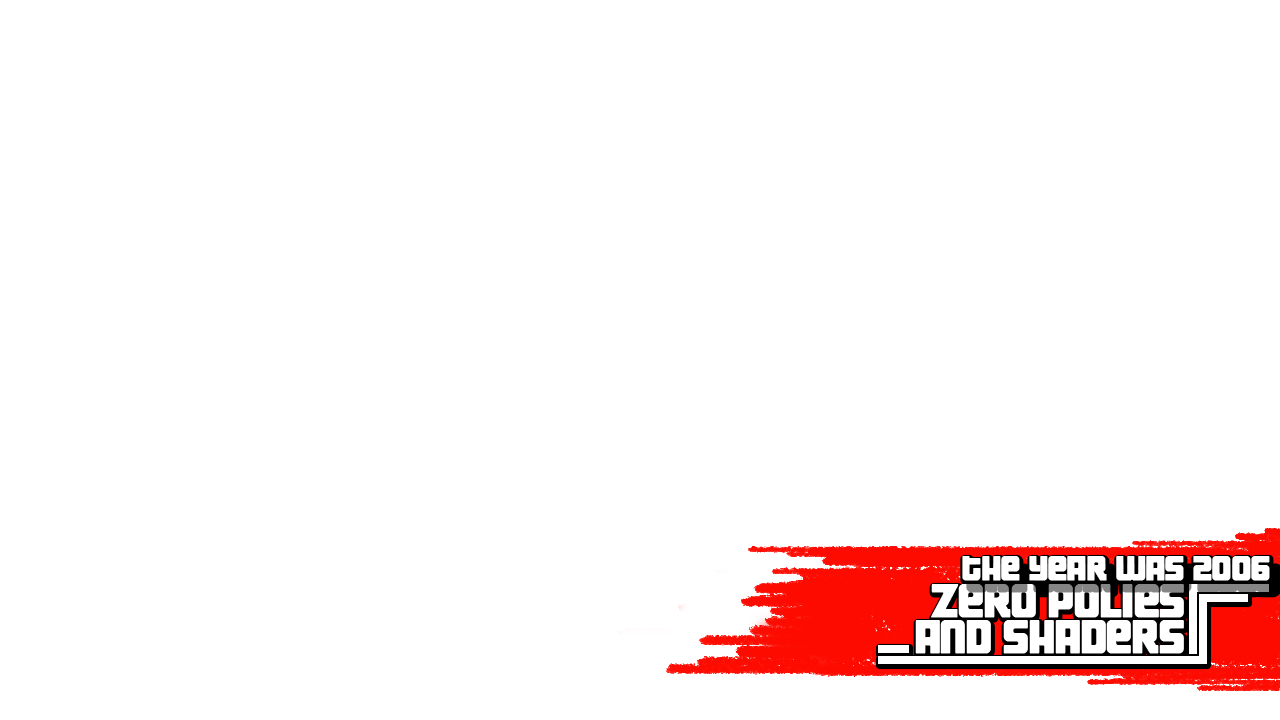
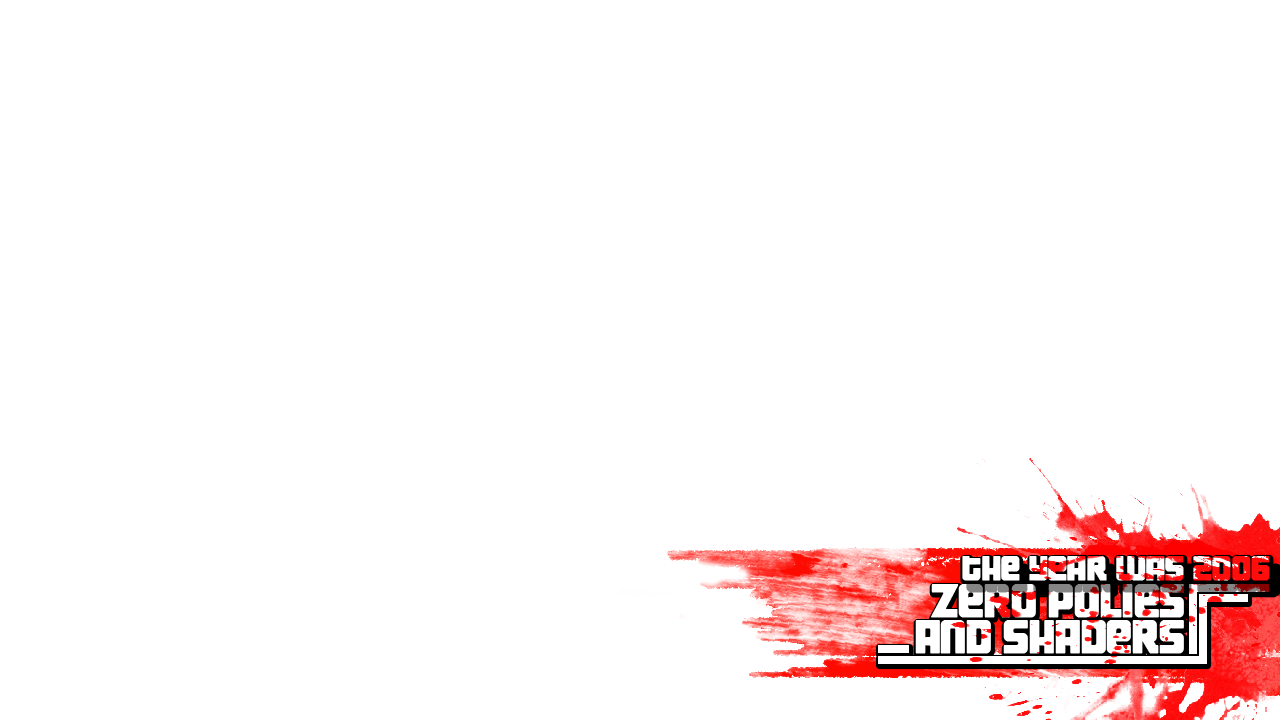
More of Nytrik's demands in the pipeline :)

Changed region(s): [[0.5, 0.6722, 1.0, 1.0], [0.7812, 0.825, 0.8125, 0.8556]]

diff --git a/code/demo.cpp b/code/demo.cpp
@@ -1,5 +1,5 @@
 
-// cookiedough -- Bypass/TPB-07: arrested development
+// cookiedough -- Bypass featuring TPB. presents 'Arrested Development'
 
 #include "main.h"
 // #include <windows.h> // for audio.h
@@ -48,7 +48,11 @@ SyncTrack trackWaterLove;
 
 SyncTrack trackLoveBlurHorz;
 
-SyncTrack trackCloseUpMoonraker, trackCloseUpMoonrakerText;
+SyncTrack trackCloseUpMoonraker, trackCloseUpMoonrakerText, trackCloseUpMoonrakerTextBlur;
+
+SyncTrack trackSpikeDemoLogoIndex;
+
+SyncTrack trackBloodEffectLogoBlend;
 
 // --------------------
 
@@ -60,9 +64,9 @@ constexpr auto kCredY = 568;
 // vignette re-used (TPB-06)
 static uint32_t *s_pVignette06 = nullptr;
 
-// Stars/NoooN text overlay, lens dirt & vignette (1280x720)
-static uint32_t *s_pNoooN = nullptr;
-static uint32_t *s_pMFX = nullptr;
+// Stars/NoooN + MFX text overlays, lens dirt & vignette (1280x720)
+static uint32_t *s_pNoooN[4] = { nullptr };
+static uint32_t *s_pMFX[4] = { nullptr };
 static uint32_t *s_pTunnelFullDirt = nullptr;
 static uint32_t *s_pTunnelVignette = nullptr;
 static uint32_t *s_pTunnelVignette2 = nullptr;
@@ -70,7 +74,7 @@ static uint32_t *s_pTunnelVignette2 = nullptr;
 // first spikey ball art
 static uint32_t *s_pSpikeyFullDirt = nullptr;
 static uint32_t *s_pSpikeyBypass = nullptr;
-static uint32_t *s_pSpikeyArrested = nullptr;
+static uint32_t *s_pSpikeyArrested[4] = { nullptr };
 static uint32_t *s_pSpikeyVignette = nullptr;
 static uint32_t *s_pSpikeyVignette2 = nullptr;
 
@@ -179,9 +183,12 @@ bool Demo_Create()
 
 	trackCheapJoke = Rocket::AddTrack("demo:CheapGPU");
 
+	trackSpikeDemoLogoIndex = Rocket::AddTrack("demo:MainLogoIndex");
+
 	// FIXME: this one might not belong in this file for but for compositing reasons it does
 	trackCloseUpMoonraker = Rocket::AddTrack("closeSpike:Moonraker");
 	trackCloseUpMoonrakerText = Rocket::AddTrack("closeSpike:MoonrakerText");
+	trackCloseUpMoonrakerTextBlur = Rocket::AddTrack("closeSpike:MoonrakerBlur");
 
 	// load credits logos (1280x640)
 	s_pCredits[0] = Image_Load32("assets/credits/Credits_Tag_Superplek_outlined.png");
@@ -198,27 +205,41 @@ bool Demo_Create()
 		return false;
 	
 	// first appearance of the 'spikey ball' including the title and main group
-	s_pSpikeyArrested = Image_Load32("assets/spikeball/TheYearWas2023_Overlay_Typo.png");
+	s_pSpikeyArrested[0] = Image_Load32("assets/spikeball/Layer 2023_1.png");
+	s_pSpikeyArrested[1] = Image_Load32("assets/spikeball/Layer 2023_2.png");
+	s_pSpikeyArrested[2] = Image_Load32("assets/spikeball/Layer 2023_3.png");
+	s_pSpikeyArrested[3] = Image_Load32("assets/spikeball/Layer 2023_4.png");
 	s_pSpikeyVignette = Image_Load32("assets/spikeball/Vignette_CoolFilmLook.png");
 	s_pSpikeyVignette2 = Image_Load32("assets/spikeball/Vignette_Layer02_inverted.png");
 	s_pSpikeyBypass = Image_Load32("assets/spikeball/SpikeyBall_byPass_BG_Overlay.png");
 	s_pSpikeyFullDirt = Image_Load32("assets/spikeball/nytrik-TheYearWas_Overlay_LensDirt.jpg");
-	if (nullptr == s_pSpikeyArrested || nullptr == s_pSpikeyBypass || nullptr == s_pSpikeyFullDirt || nullptr == s_pSpikeyVignette || nullptr == s_pSpikeyVignette2)
+	const bool spikeyArresteds = nullptr == s_pSpikeyArrested[0] || nullptr == s_pSpikeyArrested[1] || nullptr == s_pSpikeyArrested[2] || nullptr == s_pSpikeyArrested[3];
+	if (true == spikeyArresteds || nullptr == s_pSpikeyBypass || nullptr == s_pSpikeyFullDirt || nullptr == s_pSpikeyVignette || nullptr == s_pSpikeyVignette2)
 		return false;
 
 	// NoooN et cetera
-	s_pNoooN = Image_Load32("assets/tunnels/TheYearWas_Overlay_Typo_style2.png");
-	s_pMFX = Image_Load32("assets/tunnels/TheYearWas2006_Overlay_Overlay_Typo_style2.png");
+	s_pNoooN[0] = Image_Load32("assets/tunnels/layer 1995_1.png");
+	s_pNoooN[1] = Image_Load32("assets/tunnels/layer 1995_2.png");
+	s_pNoooN[2] = Image_Load32("assets/tunnels/layer 1995_3.png");
+	s_pNoooN[3] = Image_Load32("assets/tunnels/layer 1995_4.png");
+	s_pMFX[0] = Image_Load32("assets/tunnels/layer 2006_1.png");
+	s_pMFX[1] = Image_Load32("assets/tunnels/layer 2006_2.png");
+	s_pMFX[2] = Image_Load32("assets/tunnels/layer 2006_3.png");
+	s_pMFX[3] = Image_Load32("assets/tunnels/layer 2006_4.png");
 	s_pTunnelFullDirt = Image_Load32("assets/tunnels/nytrik-TheYearWas_Overlay_LensDirt.png");
 	s_pTunnelVignette = Image_Load32("assets/tunnels/Vignette_CoolFilmLook.png");;
 	s_pTunnelVignette2 = Image_Load32("assets/tunnels/Vignette_Layer02_inverted.png");
-	if (nullptr == s_pNoooN || nullptr == s_pTunnelFullDirt || nullptr == s_pTunnelVignette || nullptr == s_pTunnelVignette2 || nullptr == s_pMFX)
+
+	const bool NoooN = nullptr == s_pNoooN[0] || nullptr == s_pNoooN[1] || nullptr == s_pNoooN[2] || nullptr == s_pNoooN[3];
+	const bool MFX = nullptr == s_pMFX[0] || nullptr == s_pMFX[1] || nullptr == s_pMFX[2] || nullptr == s_pMFX[3];
+
+	if (true == NoooN || true == MFX || nullptr == s_pTunnelFullDirt || nullptr == s_pTunnelVignette || nullptr == s_pTunnelVignette2)
 		return false;
 	
 	// landscape
 	s_pGodLayer = Image_Load32("assets/demo/nytrik-god-layer-720p.png"); 
 	s_pRevLogo = Image_Load32("assets/scape/revision-logo_white.png");
-	if ( nullptr == s_pGodLayer || nullptr == s_pRevLogo)
+	if (nullptr == s_pGodLayer || nullptr == s_pRevLogo)
 		return false;
 
 	// voxel ball
@@ -273,7 +294,7 @@ bool Demo_Create()
 	s_pCloseSpikeDirtRaker = Image_Load32("assets/closeup/raker-LensDirt5_invert.png");
 	s_pCloseSpikeVignetteForRaker = Image_Load32("assets/closeup/VignetteForRaker.png");
 	s_pCloseSpikeVignette = Image_Load32("assets/closeup/Vignette_CoolFilmLook.png");
-	s_pCloseSpike1961 = Image_Load32("assets/closeup/raker_textSmall.png");
+	s_pCloseSpike1961 = Image_Load32("assets/closeup/raker_textSmall.png"); // 624x115
 	if (nullptr == s_pCloseSpikeDirtRaker || nullptr == s_pCloseSpikeVignette || nullptr == s_pCloseSpikeVignetteForRaker || nullptr == s_pCloseSpike1961)
 		return false;
 
@@ -320,6 +341,40 @@ static void FadeFlash(uint32_t *pDest, float fadeToBlack, float fadeToWhite)
 
 		if (fadeToBlack > 0.f)
 			Fade32(pDest, kOutputSize, 0, uint8_t(fadeToBlack*255.f));
+}
+
+// blend blood logos from zero to full ([0..4]) -- uses g_renderTarget[3]!
+static uint32_t *BloodBlend(float blend, uint32_t *pLogos[4])
+{
+	VIZ_ASSERT(hullptr != pLogos);
+
+	uint32_t *pTarget = g_renderTarget[3];
+	const float factor = fmodf(blend, 1.f);
+	const uint8_t iFactor = uint8_t(255.f*factor);
+
+	// we're going to do this the stupid way (and not optimize for all but the last case because it'll be a smooth transition)
+	if (blend >= 0.f && blend <= 1.f)
+	{
+		memcpy(pTarget, pLogos[0], kOutputBytes);
+		Mix32(pTarget, pLogos[1], kOutputSize, iFactor);	
+	}
+	else if (blend > 1.f && blend <= 2.f)
+	{
+		memcpy(pTarget, pLogos[1], kOutputBytes);
+		Mix32(pTarget, pLogos[2], kOutputSize, iFactor);	
+	}
+	else if (blend > 2.f && blend <= 3.f)
+	{
+		memcpy(pTarget, pLogos[2], kOutputBytes);
+		Mix32(pTarget, pLogos[3], kOutputSize, iFactor);	
+	}
+	else if (blend >= 3.f)
+	{
+//		memcpy(pTarget, pLogos[3], kOutputBytes);
+		return pLogos[3];
+	}
+
+	return pTarget;
 }
 
 bool Demo_Draw(uint32_t *pDest, float timer, float delta)
@@ -461,7 +516,7 @@ bool Demo_Draw(uint32_t *pDest, float timer, float delta)
 //				}
 
 				if (0 != Rocket::geti(trackShow1995))
-					MixOver32(pDest, s_pNoooN, kOutputSize);
+					MixOver32(pDest, BloodBlend(Rocket::getf(trackShow1995), s_pNoooN), kOutputSize);
 
 				Overlay32(pDest, s_pTunnelVignette, kOutputSize);
 			}
@@ -555,24 +610,32 @@ bool Demo_Draw(uint32_t *pDest, float timer, float delta)
 					// Moonraker
 					const float raker = Rocket::getf(trackCloseUpMoonraker);
 					const float rakerText = clampf(0.f, 2.f, Rocket::getf(trackCloseUpMoonrakerText));
-
+					
 					if (raker > 0.f)
 					{
 						MulSrc32(pDest, s_pCloseSpikeVignetteForRaker, kOutputSize);
 						SoftLight32AA(pDest, s_pCloseSpikeDirtRaker, kOutputSize, raker);
 						
-//						BlitSrc32A(pDest, s_pCloseSpikeRakerText, kResX, kResX, kResY, rakerText);
-//						SoftLight32A(pDest, s_pCloseSpikeRakerText, kOutputSize);
 						if (rakerText > 0.f && rakerText < 1.f)
 						{						
 							// this is shit slow, but it'll only last a short whole (FIXME: optimize for major release)
-							memset(g_renderTarget[2], 0, kOutputBytes);
-							BlitSrc32(g_renderTarget[2] + ((kResY-152)*kResX), s_pCloseSpike1961, kResX, 442, 152);
-							SoftLight32A(pDest, g_renderTarget[2], kOutputSize);
+							memset32(g_renderTarget[2], 0, kOutputSize);
+							BlitSrc32(g_renderTarget[2] + ((kResY-115)*kResX), s_pCloseSpike1961, kResX, 624, 115);
+							SoftLight32AA(pDest, g_renderTarget[2], kOutputSize, rakerText); // <- this would be the function to make work on arbitrarily sized bitmaps
 						}
 						else if (rakerText >= 1.f)
 						{
-							BlitSrc32(pDest + ((kResY-152)*kResX), s_pCloseSpike1961, kResX, 442, 152);
+							// just (possibly) blur and blit
+
+							const uint32_t *pText = s_pCloseSpike1961;
+							const float rakerBlur = clampf(0.f, 100.f, Rocket::getf(trackCloseUpMoonrakerTextBlur));
+							if (rakerBlur >= 1.f)
+							{
+								HorizontalBoxBlur32(g_renderTarget[3] /* just assuming this one is free */, pText, 624, 115, BoxBlurScale(rakerBlur));
+								pText = g_renderTarget[3];
+							}
+
+							BlitSrc32(pDest + ((kResY-115)*kResX), pText, kResX, 624, 115);
 						}
 						
 
@@ -592,15 +655,22 @@ bool Demo_Draw(uint32_t *pDest, float timer, float delta)
 			break;
 
 		case 8:
-			// Spike ball with title and group name (Bypass)
-			Spikey_Draw(pDest, timer, delta, false);
-			FadeFlash(pDest, fadeToBlack, fadeToWhite);
-			SoftLight32(pDest, s_pSpikeyBypass, kOutputSize);
-			Sub32(pDest, s_pSpikeyVignette2, kOutputSize);
-			Excl32(pDest, s_pSpikeyFullDirt, kOutputSize);
-			MulSrc32A(pDest, s_pVignette06, kOutputSize);
-			MixOver32(pDest, s_pSpikeyArrested, kOutputSize);
-			Overlay32(pDest, s_pSpikeyVignette, kOutputSize);
+			{
+				const int logoIdx = clampi(0, 4, Rocket::geti(trackSpikeDemoLogoIndex));
+
+				// Spike ball with title and group name (Bypass)
+				Spikey_Draw(pDest, timer, delta, false);
+				FadeFlash(pDest, fadeToBlack, fadeToWhite);
+				SoftLight32(pDest, s_pSpikeyBypass, kOutputSize);
+				Sub32(pDest, s_pSpikeyVignette2, kOutputSize);
+				Excl32(pDest, s_pSpikeyFullDirt, kOutputSize);
+				MulSrc32A(pDest, s_pVignette06, kOutputSize);
+
+				if (0 != logoIdx)
+					MixOver32(pDest, s_pSpikeyArrested[logoIdx-1], kOutputSize);
+				
+				Overlay32(pDest, s_pSpikeyVignette, kOutputSize);
+			}
 			break;
 
 		case 9:
@@ -610,7 +680,7 @@ bool Demo_Draw(uint32_t *pDest, float timer, float delta)
 				Sub32(pDest, s_pTunnelVignette2, kOutputSize);
 
 				if (0 != Rocket::geti(trackShow2006))
-					MixOver32(pDest, s_pMFX, kOutputSize);
+					MixOver32(pDest, BloodBlend(Rocket::getf(trackShow2006), s_pMFX), kOutputSize);
 			}
 			break;
 
